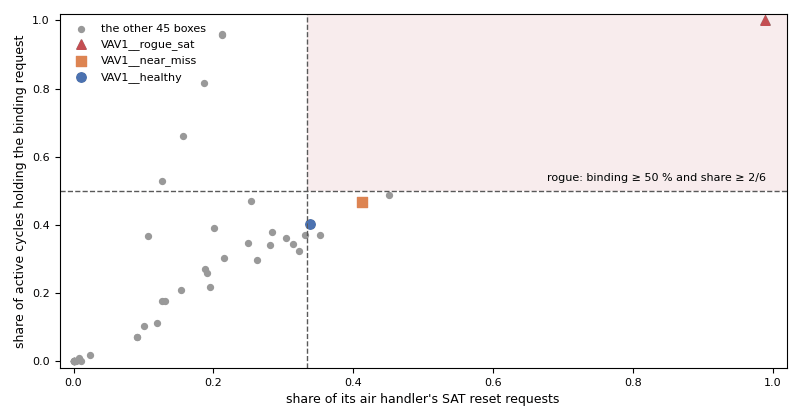
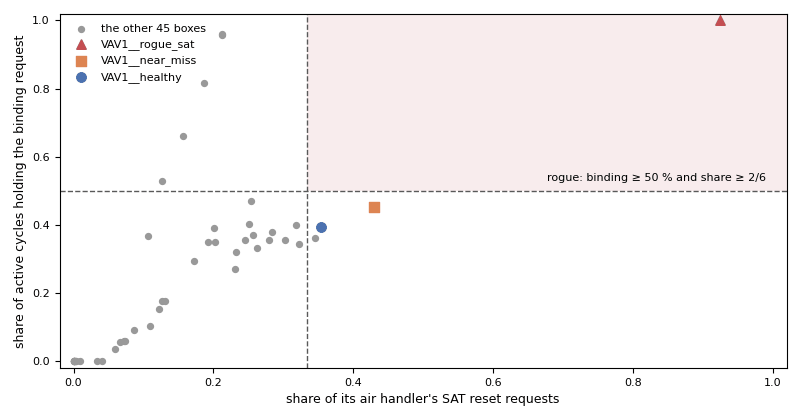
Workbook: plant-chiller-multi and zone-g36-fleet answers re-recorded after synthetic generator v2 (#184, #186)
plant-chiller-multi: the towers match on heat rejected, so TOWER__over_staged's
fan-effort drift is ok (+0.8, was a +6.5 warn); the fouled towers read +37.9 and
+55.3, the near miss +0.8, the full-fan approach drift +5.8 F; the fan-effort and
overall false-positive rates are 0.

zone-g36-fleet: the SAT census counts tier-1 requests (rogue share 92.5 %), the
static census compares with the active setpoint (equipment room 60.8 %), the
single-maximum boxes reheat above minimum 69.7 % and 93.1 % outside the high
heating loop, the near miss reads 43.0 % / 45.4 %. The census figure passes
cool_loop_col and is re-rendered. The CHANGELOG names the moved answers.

diff --git a/tests/workbook/exercises/zone_g36_fleet.py b/tests/workbook/exercises/zone_g36_fleet.py
@@ -17,7 +17,9 @@ so their answers are read from the finding's metrics. Figures were recorded from
 plus the ``zone-g36-fleet--healthy``, ``--near-miss``, ``--reheat`` and ``--heat-cool`` variants
 (CAMBER 0.105.0-dev, 2026-10-13; re-recorded on CAMBER 0.106.0-dev, 2026-10-16, after #186:
 the static census lists the equipment room as overloaded, the reheat rule reads the trended
-occupancy and excuses the high heating loop, cohort_space_temp has a 1 °F floor).
+occupancy and excuses the high heating loop, cohort_space_temp has a 1 °F floor; and again
+after generator version 2: the boxes trend their active airflow setpoint, minimum and heating and
+cooling loops, so the censuses count tier-1 and active-setpoint requests).
 """
 
 from __future__ import annotations
@@ -89,7 +91,7 @@ def _rogues(ctx) -> None:
     assert dsp["overloaded_zones"] == ["VAV1__rogue_sat"], dsp["overloaded_zones"]
     assert dsp["overloaded_share"] == {"VAV1__rogue_sat": 1.0}, dsp["overloaded_share"]
     assert dsp["worst_zone"] == "VAV5__rogue_static", dsp["worst_zone"]
-    assert dsp["zone_request_share"]["VAV1__rogue_sat"] == 0.486, dsp["zone_request_share"]
+    assert dsp["zone_request_share"]["VAV1__rogue_sat"] == 0.608, dsp["zone_request_share"]
 
 
 def _cohorts(ctx) -> None:
@@ -146,8 +148,8 @@ def _near_miss(ctx) -> None:
     """The near miss's zone 1 asks for the most and binds the most, under both bars' one."""
     m = _metrics(ctx, _SAT_ROGUE, "near-miss")
     assert m["rogues"] == [], m["rogues"]
-    assert m["zone_binding_frac"]["VAV1__near_miss"] == 0.468, m["zone_binding_frac"]
-    assert m["zone_request_share"]["VAV1__near_miss"] == 0.413, m["zone_request_share"]
+    assert m["zone_binding_frac"]["VAV1__near_miss"] == 0.454, m["zone_binding_frac"]
+    assert m["zone_request_share"]["VAV1__near_miss"] == 0.43, m["zone_request_share"]
 
 
 EXERCISE = Exercise(
@@ -199,9 +201,9 @@ EXERCISE = Exercise(
         # 2. the rogue zones
         Finding(_SAT_ROGUE, _FLEET, severity=("warn",)),
         Finding(_DSP_ROGUE, _FLEET, severity=("warn",)),
-        Metric(_SAT_ROGUE, _FLEET, "worst_zone_share", 0.989, 0.0005, quote="98.9%"),
+        Metric(_SAT_ROGUE, _FLEET, "worst_zone_share", 0.925, 0.0005, quote="92.5%"),
         Metric(_DSP_ROGUE, _FLEET, "worst_zone_share", 0.959, 0.0005, quote="95.9%"),
-        Check("the rogues by air handler", _rogues, quote="48.6 %"),
+        Check("the rogues by air handler", _rogues, quote="60.8 %"),
         # 3. the starved cohorts
         Finding(_SAT_COHORT, _FLEET, severity=("warn",)),
         Finding(_DSP_COHORT, _FLEET, severity=("warn",)),
@@ -218,8 +220,9 @@ EXERCISE = Exercise(
         Finding(_REHEAT, "VAV4__reheat", severity=("fault",)),
         Finding(_REHEAT, "VAV2__healthy", severity=("ok",)),
         Metric(_REHEAT, "VAV2__reheat", "reheat_hours_pct", 18.3, 0.05, quote="18.3 %"),
-        Metric(_REHEAT, "VAV2__reheat", "reheat_above_min_pct", 93.9, 0.05, quote="93.9 %"),
+        Metric(_REHEAT, "VAV2__reheat", "reheat_above_min_pct", 69.7, 0.05, quote="69.7 %"),
         Metric(_REHEAT, "VAV4__reheat", "reheat_hours_pct", 16.1, 0.05, quote="16.1 %"),
+        Metric(_REHEAT, "VAV4__reheat", "reheat_above_min_pct", 93.1, 0.05, quote="93.1 %"),
         Metric(_REHEAT, "VAV2__healthy", "reheat_hours_pct", 17.2, 0.05, quote="17.2 %"),
         Metric(_REHEAT, "VAV2__healthy", "reheat_above_min_pct", 0.0, 0.05),
         Metric(_REHEAT, "VAV2__healthy", "reheat_high_loop_pct", 9.7, 0.05, quote="9.7 %"),
@@ -245,7 +248,7 @@ EXERCISE = Exercise(
         Metric(_CENSUS, _FLEET, "pct_hours_mixed", 17.2, 0.05, run="healthy", quote="17.2 %"),
         Metric(_CENSUS, _FLEET, "pct_hours_any_both", 2.2, 0.05, run="healthy", quote="2.2 %"),
         Finding(_SAT_ROGUE, _FLEET, severity=("ok",), run="near-miss"),
-        Check("the near miss", _near_miss, quote="46.8%"),
+        Check("the near miss", _near_miss, quote="45.4%"),
     ),
     standin=standin,
 )

diff --git a/tests/workbook/exercises/plant_chiller_multi.py b/tests/workbook/exercises/plant_chiller_multi.py
@@ -18,6 +18,10 @@ plus the three ``chiller_staging_fleet`` variants (CAMBER 0.105.0-dev, 2026-10-1
 Re-recorded for 0.106.0-dev on 2026-10-16 after #183/#184: the fleet leaves the secondary loops
 out (14 chillers, not 21), each loop is gated on its flow, ``cooling_tower_approach_drift`` runs on
 the towers, and each rule's label score counts only the equipment it ran on.
+
+Re-recorded for 0.106.0-dev on 2026-10-16 after generator version 2: the tower trends its
+condenser-water flow (``cw_flow``), so the tower drift rules match on the heat rejected and the
+over-staged plant's tower no longer reads as working harder.
 """
 
 from __future__ import annotations
@@ -161,15 +165,16 @@ EXERCISE = Exercise(
         Check("the controlled tower hides in its fan", _controlled_tower_hides_in_fan),
         Finding(_FAN, "TOWER__tower_controlled", severity=("fault",)),
         Finding(_FAN, "TOWER__tower_full_fan", severity=("fault",)),
-        Metric(_FAN, "TOWER__tower_controlled", "fan_effort_drift_pct", 34.9, 0.05, quote="34.9"),
-        Metric(_FAN, "TOWER__tower_full_fan", "fan_effort_drift_pct", 59.07, 0.05, quote="59.1"),
-        # the false positive: two chillers' condenser water halves the tower's range
-        Finding(_FAN, "TOWER__over_staged", severity=("warn",)),
-        Metric(_FAN, "TOWER__over_staged", "fan_effort_drift_pct", 6.47, 0.05, quote="6.5"),
+        Metric(_FAN, "TOWER__tower_controlled", "fan_effort_drift_pct", 37.85, 0.05, quote="37.9"),
+        Metric(_FAN, "TOWER__tower_full_fan", "fan_effort_drift_pct", 55.26, 0.05, quote="55.3"),
+        # a false positive avoided: matched on the heat rejected (cw_flow), two chillers'
+        # condenser water no longer reads as fan effort
+        Finding(_FAN, "TOWER__over_staged", severity=("ok",)),
+        Metric(_FAN, "TOWER__over_staged", "fan_effort_drift_pct", 0.78, 0.05, quote="0.8"),
         # the approach drift, now on the towers themselves (0.106, #184): only the full-fan tower
         Finding(_APPDRIFT, "TOWER__tower_full_fan", severity=("fault",)),
         Metric(
-            _APPDRIFT, "TOWER__tower_full_fan", "tower_approach_drift_f", 5.75, 0.05, quote="5.7"
+            _APPDRIFT, "TOWER__tower_full_fan", "tower_approach_drift_f", 5.84, 0.05, quote="5.8"
         ),
         *(
             Finding(_APPDRIFT, f"TOWER__{p}", severity=("ok",))
@@ -181,13 +186,13 @@ EXERCISE = Exercise(
         Metric(_APP, "CH1__near_miss", "worst_approach_ratio", 1.38, 0.005, quote="1.38"),
         Finding(_TOWER, "TOWER__near_miss", severity=("ok",)),
         Finding(_FAN, "TOWER__near_miss", severity=("ok",)),
-        Metric(_FAN, "TOWER__near_miss", "fan_effort_drift_pct", 4.87, 0.05, quote="4.9"),
+        Metric(_FAN, "TOWER__near_miss", "fan_effort_drift_pct", 0.82, 0.05, quote="0.8"),
         # 7. the label score
         Score(_TRACK, tpr=1.0, fpr=0.0),
         Score(_APP, tpr=1.0, fpr=0.0),
         Score(_TOWER, tpr=0.5, fpr=0.0, quote="TPR 50%"),
-        Score(_FAN, tpr=1.0, fpr=1 / 5, tol=0.001, quote="1 of 5"),
-        Score(None, tpr=4 / 6, fpr=1 / 22, tol=0.001, quote="4 of 6"),
+        Score(_FAN, tpr=1.0, fpr=0.0),
+        Score(None, tpr=4 / 6, fpr=0.0, tol=0.001, quote="4 of 6"),
     ),
     standin=standin,
 )

diff --git a/scripts/docs_figures.d/zone_g36_fleet.py b/scripts/docs_figures.d/zone_g36_fleet.py
@@ -8,7 +8,8 @@ def register(df) -> None:
     def _wb_zone_g36_fleet():
         """The exercise's SAT rogue-zone census (#144): every box of the eight air handlers,
         placed by its share of its air handler's SAT reset requests and by the share of active
-        cycles it holds the binding (largest) request. A rogue needs both: the shaded corner.
+        cycles it holds the binding (largest) request, the cooling loop over 95 % counted as
+        one request (generator version 2). A rogue needs both: the shaded corner.
         The equipment room of AHU__rogue_sat sits alone in it; the near miss's warm corner and
         the healthy fleet's zone 1 sit just outside."""
         import matplotlib.pyplot as plt
@@ -34,6 +35,7 @@ def register(df) -> None:
                     {
                         "t": raw[f"ZN{k}_T"],
                         "sp": raw[f"ZN{k}_CLG_SP"],
+                        "loop": raw[f"ZN{k}_CLG_LOOP"],
                         "fan": raw["SF_STS"],
                         "occ": raw["OCC"],
                     }
@@ -46,6 +48,7 @@ def register(df) -> None:
             temp_col="t",
             cool_sp_col="sp",
             gate_cols=("fan", "occ"),
+            cool_loop_col="loop",
         )
         share, binding = res.zone_request_share, res.zone_binding_frac
         fig, ax = plt.subplots(figsize=df.STD)

diff --git a/docs/workbook/instructor.md b/docs/workbook/instructor.md
@@ -835,7 +835,8 @@ Addendum f and secondary sources); no standard text is quoted here.
 ### `zone-g36-fleet`: A G36 VAV fleet: rogue zones, starved cohorts and resets
 
 Figures from the synthetic `synthetic-g36-vav-fleet` entry (generated by CAMBER, so every copy
-gives the same numbers), CAMBER 0.106.0-dev (re-recorded after #186), with the commands on the
+gives the same numbers), CAMBER 0.106.0-dev (re-recorded after #186 and the generator's version
+2, whose boxes trend their active airflow setpoint and loops), with the commands on the
 [exercise page](zone-g36-fleet.md#setup). How the eight air handlers were built: one spring
 weather series (about 46-80 °F, three weeks from 28 April) drives eight copies of a VAV air handler
 with six single-duct reheat boxes. Each hour every box asks for the airflow its zone's load needs
@@ -866,13 +867,13 @@ than the healthy fleet's.
    end when its requests ask it to move (0.0 % of those cycles).
 2. *A reset doing its job.* `AHU__rogue_sat`'s SAT reset is effective: it swings 10.06 °F,
    exactly as its requests ask, down to 55 °F every afternoon. The fault is the zone: the SAT
-   census names `VAV1__rogue_sat`, which sends 98.9% of its air handler's requests and holds the
+   census names `VAV1__rogue_sat`, which sends 92.5% of its air handler's requests and holds the
    largest one on every cycle with any request. The other five zones get air far colder than they
    need, and the cooling plant pays for it. Fix the room (its load or its box), or stop the reset
    counting that zone's requests.
 3. *Static rogues.* The static census names `VAV5__rogue_static` (95.9% of its air handler's
    requests). `AHU__rogue_static`'s reset is effective too: it swings the full 1.4 in. w.c. and
-   holds the static near the top all day for one box. It lists `VAV1__rogue_sat` (48.6 % of its
+   holds the static near the top all day for one box. It lists `VAV1__rogue_sat` (60.8 % of its
    air handler's static requests) apart, under `overloaded_zones`: the equipment room's box is
    wide open because the room is short of cooling, 3 °F or more above its setpoint on every one
    of its static requests. It drags the duct static as well as the SAT reset, but it is the SAT
@@ -892,11 +893,11 @@ than the healthy fleet's.
    `cohort_space_temp`, building-wide, flags `VAV1__rogue_sat` (z 10.9) and five of
    `AHU__not_responding`'s boxes.
 6. *Reheat.* `reheat_minimization_g36` faults on seven boxes: `VAV2__reheat` and `VAV4__reheat`
-   (reheating 18.3 % and 16.1 % of occupied hours, 93.9 % and 100 % of it above minimum airflow
+   (reheating 18.3 % and 16.1 % of occupied hours, 69.7 % and 93.1 % of it above minimum airflow
    outside the high heating loop) and `VAV1__heat_cool` to `VAV5__heat_cool`. The healthy
    fleet's west box reheats too (17.2 % of occupied hours) and passes: it rises above its
-   minimum only with its valve wide open (9.7 % of its reheating hours), the dual-maximum
-   sequence's high heating loop, where the airflow rises by design. `zones_heat_cool_census`
+   minimum only in its high heating loop (heating loop over 50 %, 9.7 % of its reheating hours),
+   where the dual-maximum sequence raises the airflow by design. `zones_heat_cool_census`
    asks whether some zones heat while others cool. Building-wide it faults: 98.3 % of occupied
    hours have one. On `AHU__reheat`'s boxes alone it passes (18.3 %): two boxes reheating on cool
    mornings while the others cool are not a fleet problem, and only the per-box rule finds them.
@@ -912,9 +913,9 @@ than the healthy fleet's.
    too, and `zones_heat_cool_census` reads 17.2 % (2.2 % with one box heating above its
    minimum). The north zone, `VAV4__healthy`, has a mean about 0.8 °F below the median of the
    six, against a spread (MAD) of 0.07 °F among them: a z of -7.6, but under the rule's 1 °F
-   floor. A small, real exposure difference is not a fault. The near miss's zone 1 sends 41.3 % of its air handler's SAT
-   requests and holds the largest one on 46.8% of the active cycles: under the 50 % bar, though
-   the healthy fleet's zone 1 is not far behind (34 %, 40 %).
+   floor. A small, real exposure difference is not a fault. The near miss's zone 1 sends 43.0 % of its air handler's SAT
+   requests and holds the largest one on 45.4% of the active cycles: under the 50 % bar, though
+   the healthy fleet's zone 1 is not far behind (35 %, 40 %).
 
 **Discussion points**
 
@@ -1555,7 +1556,8 @@ fixed 85 °F (a floor of 85 °F). `PLANT__high_floor` resets but never below 80 
 ### `plant-chiller-multi`: Two chillers, a secondary loop and a fouled tower
 
 Figures from the synthetic `synthetic-chw-plant-multi` entry (generated by CAMBER, so every copy
-gives the same numbers), CAMBER 0.106.0-dev (re-recorded on 2026-10-16 after #183/#184), with the
+gives the same numbers), CAMBER 0.106.0-dev (re-recorded on 2026-10-16 after #183/#184 and the generator's version 2,
+whose tower trends its condenser-water flow), with the
 commands on the [exercise page](plant-chiller-multi.md#setup). How the seven plants were built: the weather of
 `plant-chiller-staging` (three weeks from early July, a heat wave in the third) and one building
 load (up to 380 tons) drive seven primary-secondary plants. Each has two 200-ton chillers on
@@ -1599,26 +1601,22 @@ chiller 1.
    100 % in every running sample and its approach is a median 12.6 °F. `TOWER__tower_controlled`
    passes (`ok`, 7.1 °F): its controller still makes the wet-bulb plus 7 °F, by running the fan
    harder. The approach rule judged 290 of its samples at 90 % fan and above against 54 for the
-   clean tower. `cooling_tower_fan_effort_drift` sees that effort: +34.9 fan points against the
-   reference (fault), and +59.1 on the full-fan tower (fault). This is why `cooling_tower_approach`
+   clean tower. `cooling_tower_fan_effort_drift` sees that effort: +37.9 fan points against the
+   reference (fault), and +55.3 on the full-fan tower (fault). This is why `cooling_tower_approach`
    scores no fouled run on `lbnl-chiller`, whose tower is always controlled.
-   `cooling_tower_approach_drift` now runs on each tower against the reference, matched on its
-   range (`tower_approach_load_source` `cw_range`). It **faults** on the full-fan tower, its
-   approach +5.7 °F wider at matched load, and passes every other tower. That includes
+   `cooling_tower_approach_drift` now runs on each tower against the reference, matched on the
+   heat rejected (`tower_approach_load_source` `cw_heat_rejection`). It **faults** on the full-fan
+   tower, its approach +5.8 °F wider at matched load, and passes every other tower. That includes
    `TOWER__tower_controlled`, whose approach holds within a fraction of a degree: the same
    blind spot as `cooling_tower_approach`.
-6. *A false positive.* `cooling_tower_fan_effort_drift` **warns** on `TOWER__over_staged`, +6.5
-   points, with a clean tower. The rule reads the tower's load from its range, which assumes a
-   constant condenser flow, and its caveat says so. With both chillers' condenser water on, the
-   flow doubles and the range halves for the same heat, so the fan looks to work harder at matched
-   range. A condenser-flow point (`cw_flow`) would let it match on the heat rejected; these towers
-   trend none. The near-miss tower,
-   whose early staging doubles the flow part of the time, is `ok` at 4.9 points, just under the
-   5-point warn.
+6. *A false positive avoided.* `TOWER__over_staged` is `ok`, +0.8 points. With both chillers on,
+   the condenser flow doubles and the range halves for the same heat; matched on range alone, the
+   fan would look to work harder (+6.5 points, a warn). The towers trend their condenser flow
+   (`cw_flow`), so the rule matches on the heat rejected. The near-miss tower, whose early staging
+   doubles the flow part of the time, is `ok` at 0.8 points.
 7. *Score.* `chw_supply_tracking` and `chiller_approach_fouling` score TPR 100% and FPR 0 %.
    `cooling_tower_approach` scores TPR 50% (the full-fan tower only), FPR 0 %.
-   `cooling_tower_fan_effort_drift` catches both fouled towers, with one false positive in 1 of 5
-   fault-free towers. Overall the plant detects 4 of 6 faulted equipment: the two over-staged
+   `cooling_tower_fan_effort_drift` catches both fouled towers with no false positive (FPR 0 %). Overall the plant detects 4 of 6 faulted equipment: the two over-staged
    chillers carry a label but no equipment finding, because the fleet rule's finding sits on
    `<fleet>`, so no label score can count it. Each rule's rates count only the equipment it ran
    on: the 7 towers for the tower rules, the 14 chillers for the approach rule, and the 14
@@ -1626,7 +1624,7 @@ chiller 1.
 8. *The near miss.* `near_miss` passes everything: the lag chiller stages on early (13.2%
    over-staged), chiller 1's condenser approach is 1.38 times design (warn at 1.5), its coils
    return only 6-8 °F, which early staging hides (the extra primary flow keeps the decoupler
-   flowing forward), and its tower's fan effort is 4.9 points over the reference. Each is a trend
+   flowing forward), and its tower's fan effort is 0.8 points over the reference. Each is a trend
    to watch, not a fault.
 
 **Discussion points**
@@ -1645,7 +1643,7 @@ chiller 1.
 - Reading the facility-wide fleet fault as a finding about any one plant.
 - Blaming the chillers for the warm secondary supply in `reverse_mixing`.
 - Reading `TOWER__tower_controlled`'s `ok` on `cooling_tower_approach` as a clean tower.
-- Reading `TOWER__over_staged`'s fan-effort warn as fouling without checking the condenser flow.
+- Matching tower fan effort on the range alone when chillers and their condenser pumps stage.
 - Citing these figures as evidence about real plants: the data are synthetic.
 
 <!-- END plant-chiller-multi -->

diff --git a/docs/workbook/zone-g36-fleet.md b/docs/workbook/zone-g36-fleet.md
@@ -146,9 +146,9 @@ camber run g36_heatcool.json --out g36_heatcool_out
   to differ from the median by 1 °F or more.
 - **Reheat.** `reheat_minimization_g36` faults a box when, of its occupied hours with the
   reheat valve open, 40 % or more have its airflow over 1.2 times its minimum outside Guideline
-  36's high heating loop (warn at 15 %). Without a heating-loop point, an hour with the valve at
-  90 % or more counts as high heating loop, where a dual-maximum box raises its airflow by
-  design. `zones_heat_cool_census` counts the occupied hours with one box heating (its valve
+  36's high heating loop (warn at 15 %), where a dual-maximum box raises its airflow by design.
+  With a heating-loop point (`zone_heat_loop`, trended here) an hour with the loop over 50 %
+  counts as the high heating loop; without one, the valve at 90 % or more. `zones_heat_cool_census` counts the occupied hours with one box heating (its valve
   open) while another cools (its valve shut, its airflow over 1.1 times its minimum), and faults
   when 75 % of the hours have one (warn at 25 %). Both read the trended occupancy point.
 - **Score.** `camber datasets score` scores only the rules that judge one piece of equipment.
@@ -168,16 +168,10 @@ camber run g36_heatcool.json --out g36_heatcool_out
 - The fleet rules write one finding for everything they see. To judge one air handler, keep
   only its equipment (the variants do), and declare the served-by topology: without one, the
   censuses guess the grouping from the equipment names.
-- `ZN{n}_FLOW_MIN`, the box's minimum airflow setpoint, is mapped to `airflow_sp`, the role of
-  the box's active airflow setpoint: this data has no active setpoint. The reheat rules read it
-  as the minimum, as they do whenever no `airflow_min_sp` is mapped. Guideline 36's
-  static-pressure requests compare the airflow with the box's active setpoint, so the static
-  census counts fewer 2- and 3-request cycles than the air handler did.
-- The SAT census cannot count a box's 1-request cycles (its cooling loop over 95 %): no box
-  trends its cooling loop (`zone_cool_loop`).
-- No box trends its heating loop either, so `reheat_minimization_g36` reads a wide-open valve
-  as the high heating loop. A single-maximum box with its valve wide open looks the same, and
-  the finding says so.
+- Each box trends its active airflow setpoint (`airflow_sp`) apart from its minimum
+  (`airflow_min_sp`), and its heating and cooling loops, so the censuses count about as many
+  requests as the air handlers did (`SAT_REQ`, `DSP_REQ`). The cooling loop is the zone's
+  cooling demand as a share of its cooling maximum, a simplification of G36's sequence.
 
 ## Going further
 

diff --git a/CHANGELOG.md b/CHANGELOG.md
@@ -95,7 +95,8 @@ Releases before 0.103.0 are archived under [`docs/changelog/`](docs/changelog/in
   are over-staged (was 100 %), still a fault. The secondary loops' `run_source` is `flow` (was
   `power`), with the same figures. The `cooling_tower_fan_effort_drift` label score counts the
   7 towers, not all 28 pieces of equipment, so its false-positive rate is 1 of 5 (was 1 of 26).
-  The over-staged plant's tower still warns, because the synthetic tower has no condenser flow.
+  That rate is now 0 of 5: the synthetic tower trends its condenser flow (generator version 2,
+  below), so the over-staged plant's tower no longer warns.
   `cooling_tower_approach_drift` now runs on the seven towers. It faults on the full-fan tower
   (+5.7 °F) and passes the others, the controlled fouled tower included; the key now records it.
 - The `plant-heat-pump` label scores move with the scoring change and are re-recorded. Each rule now counts only the heat pumps or loops it ran on: `hp_mode_vs_need` and
@@ -134,7 +135,16 @@ Releases before 0.103.0 are archived under [`docs/changelog/`](docs/changelog/in
   `zone_cool_loop`). The censuses now count about as many requests as the air handlers' own
   `SAT_REQ` and `DSP_REQ`. `reheat_minimization_g36` reads the high heating loop from the loop,
   not the valve, and both single-maximum boxes still fault. The `plant-chiller-multi` and
-  `zone-g36-fleet` workbook answers move.
+  `zone-g36-fleet` workbook answers are re-recorded (keys, pages, instructor blocks and the
+  `zone-g36-fleet` figure, whose census now counts the cooling loop). On `plant-chiller-multi`
+  the fan-effort drift reads +37.9 and +55.3 points on the fouled towers (was +34.9 and +59.1),
+  +0.8 on the near miss (was +4.9), and the full-fan tower's approach drift +5.8 °F (was +5.7);
+  the fan-effort rule's false-positive rate is 0 of 5 (was 1 of 5) and the plant's 0 of 22 (was
+  1 of 22). On `zone-g36-fleet` the SAT census's rogue sends 92.5 % of its air handler's
+  requests (was 98.9 %), the equipment room 60.8 % of the static requests (was 48.6 %), the
+  single-maximum boxes reheat above minimum outside the high heating loop 69.7 % and 93.1 % of
+  their reheating hours (was 93.9 % and 100 %), and the near miss's zone 1 sends 43.0 % and binds
+  on 45.4 % (was 41.3 % and 46.8 %).
 
 ### Fixed
 - **An `ok` pump or loop drift finding names no fault (#187).** `loop_dp_drift` ended every

diff --git a/docs/workbook/plant-chiller-multi.md b/docs/workbook/plant-chiller-multi.md
@@ -112,8 +112,9 @@ camber run fleet_over.json --out fleet_over_out
 4. Which chiller's condenser is fouled, and how far is its approach from design?
 5. Which tower does `cooling_tower_approach` flag, and which does it pass? Both are fouled: what
    does the controlled tower do instead of widening its approach, and which rule sees that?
-6. `cooling_tower_fan_effort_drift` also warns on a tower that is not fouled. Which one, why
-   might the over-staged plant's tower look harder-working, and what point would settle it?
+6. `cooling_tower_fan_effort_drift` passes the over-staged plant's tower, which a range-only
+   match would have flagged. Why would two chillers' condenser water make a clean tower look
+   harder-working, and which point prevents that?
 7. What does the label score say for each rule, and for the plant as a whole? Which fault can no
    label score count, and why?
 8. The near-miss plant passes every check. What is a little off in it, and what would you watch?
@@ -144,8 +145,9 @@ camber run fleet_over.json --out fleet_over_out
   against a 7 °F design: a warn when the median is 1.3 times design, a fault at 1.7.
   `cooling_tower_fan_effort_drift` reads the fan speed against the reference tower at matched
   condenser load and wet-bulb: a warn at 5 percentage points, a fault at 10. With a condenser
-  flow (`cw_flow`) the load is the heat rejected; these towers trend none, so it is the range,
-  which assumes a constant condenser flow, and a fired finding says so.
+  flow (`cw_flow`) the load is the heat rejected, else the range, which assumes a constant
+  condenser flow. These towers trend it (`CW_GPM`), so the load is the heat rejected
+  (`load_source` `cw_heat_rejection`).
   `cooling_tower_approach_drift` reads the approach against the reference at matched load the
   same way (`tower_approach_load_source`).
 - **Score.** `camber datasets score` prints the true- and false-positive rates, with 95 %
